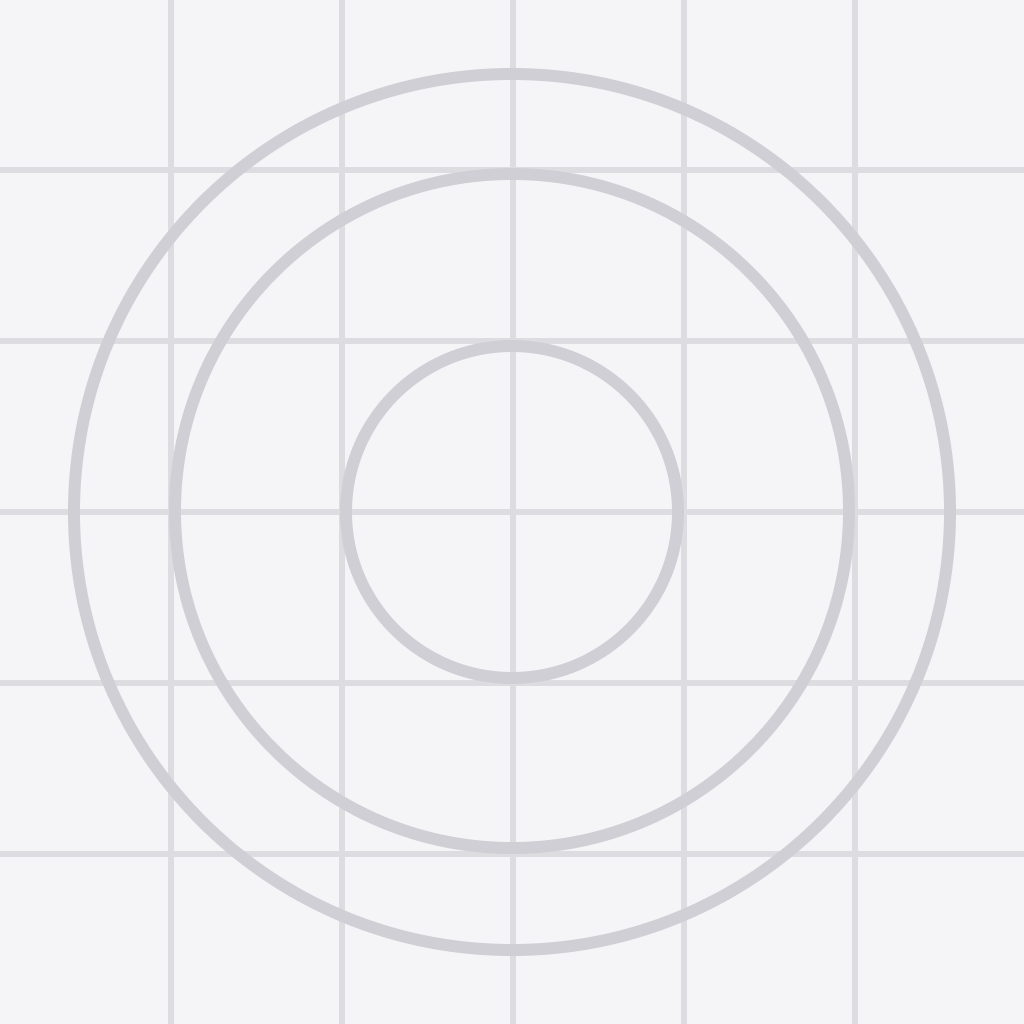
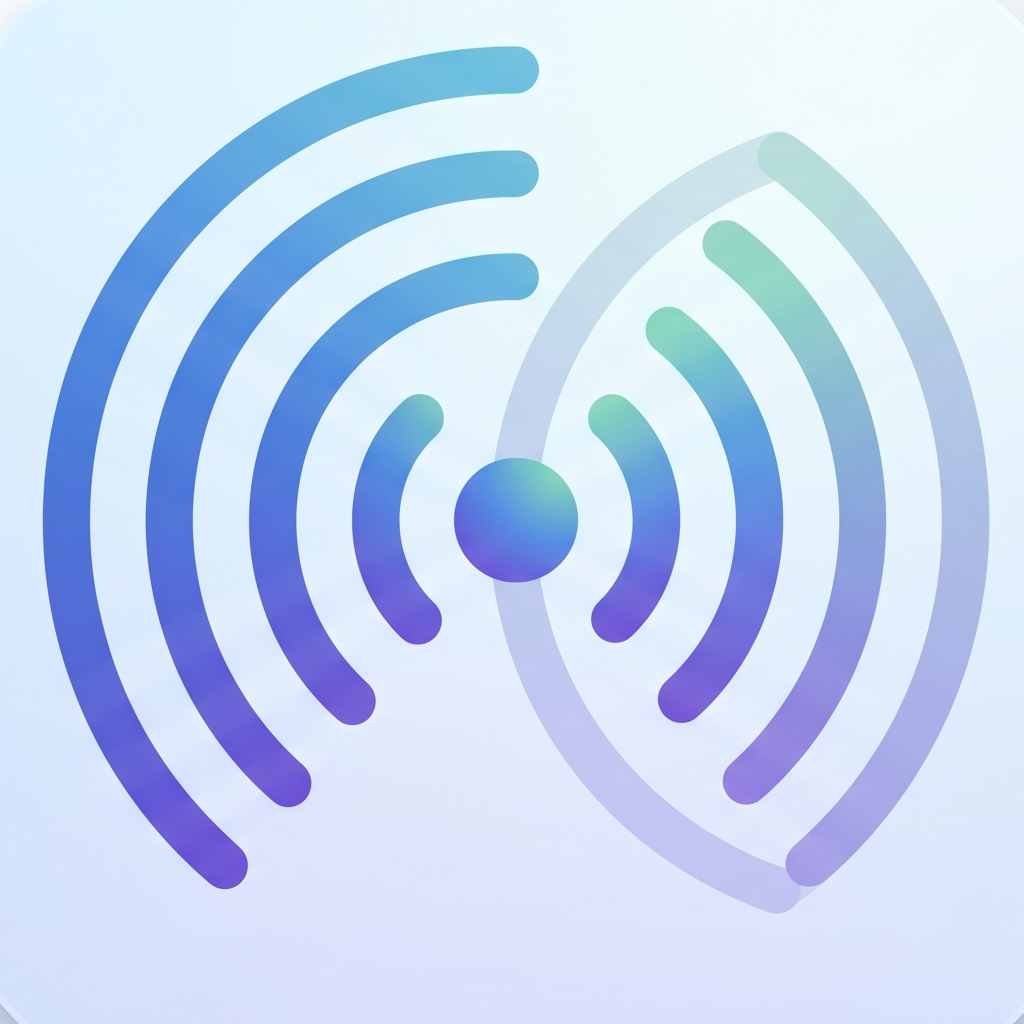
feat: despliegue

diff --git a/src/config/apiConfig.ts b/src/config/apiConfig.ts
@@ -56,8 +56,6 @@ const getBackendUrl = (): { url: string; method: string } => {
     return { url: 'http://localhost:8080/api/v1', method: 'USB / Localhost (Fallback)' };
 };
 
-const resolved = getBackendUrl();
+export const API_URL = 'https://radar-bd.onrender.com/api/v1';
 
-export const API_URL = resolved.url;
-
-console.log(`[API Config] Método: ${resolved.method} | Conectando con el backend en: ${API_URL}`);
+console.log(`[API Config] Conectando con el backend en la nube: ${API_URL}`);